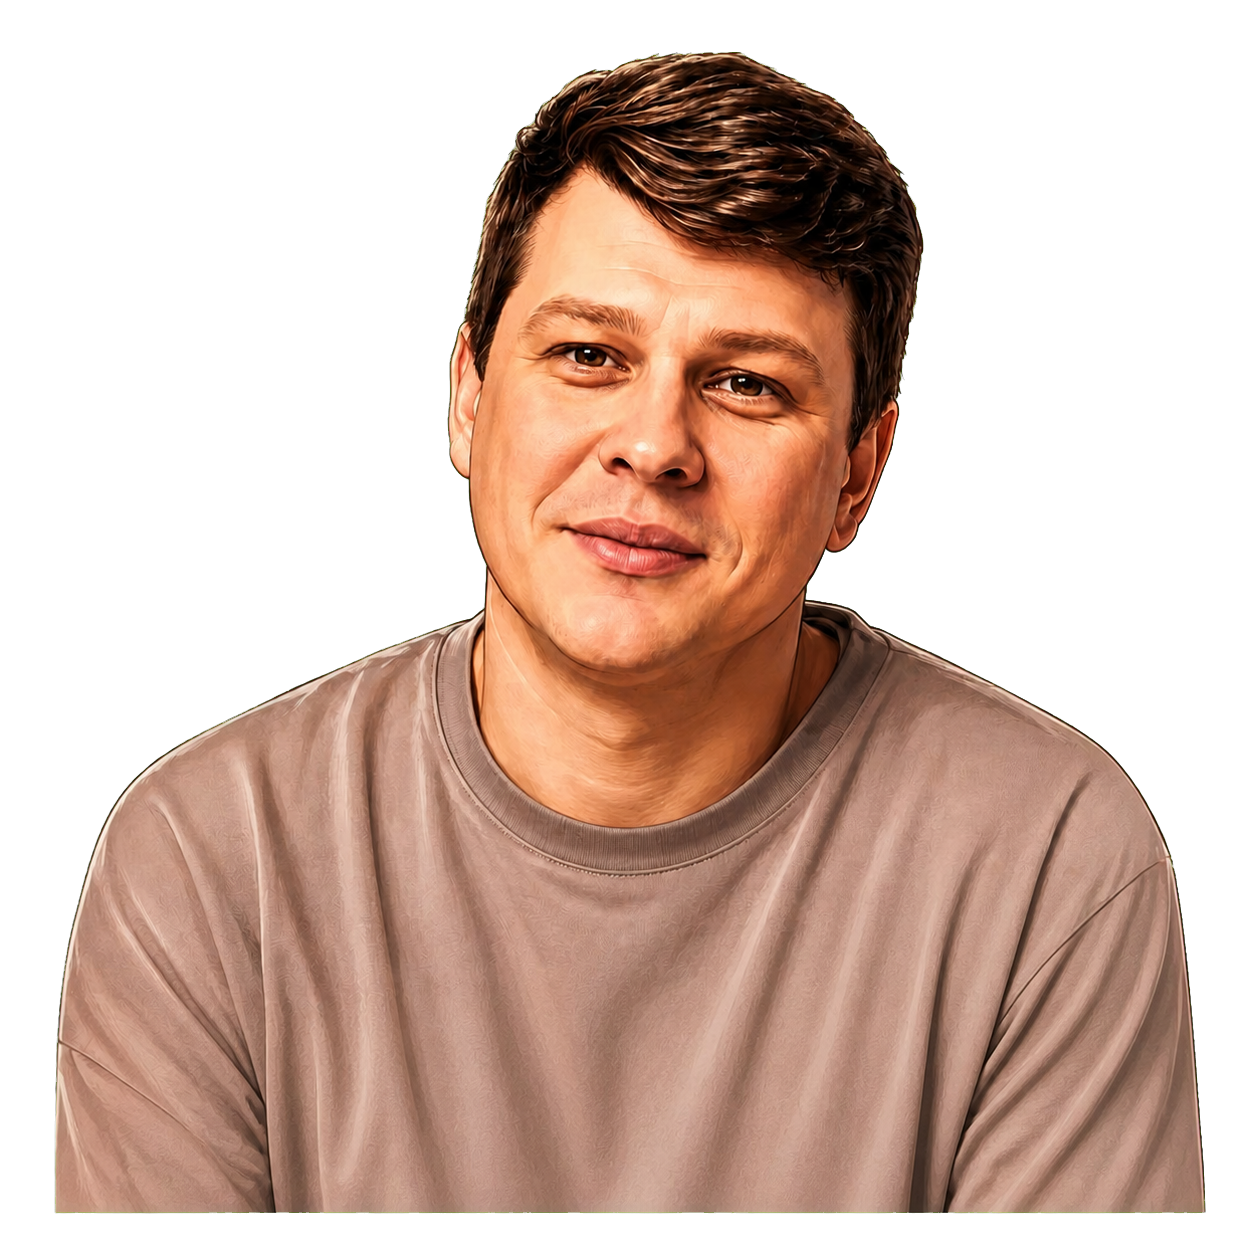
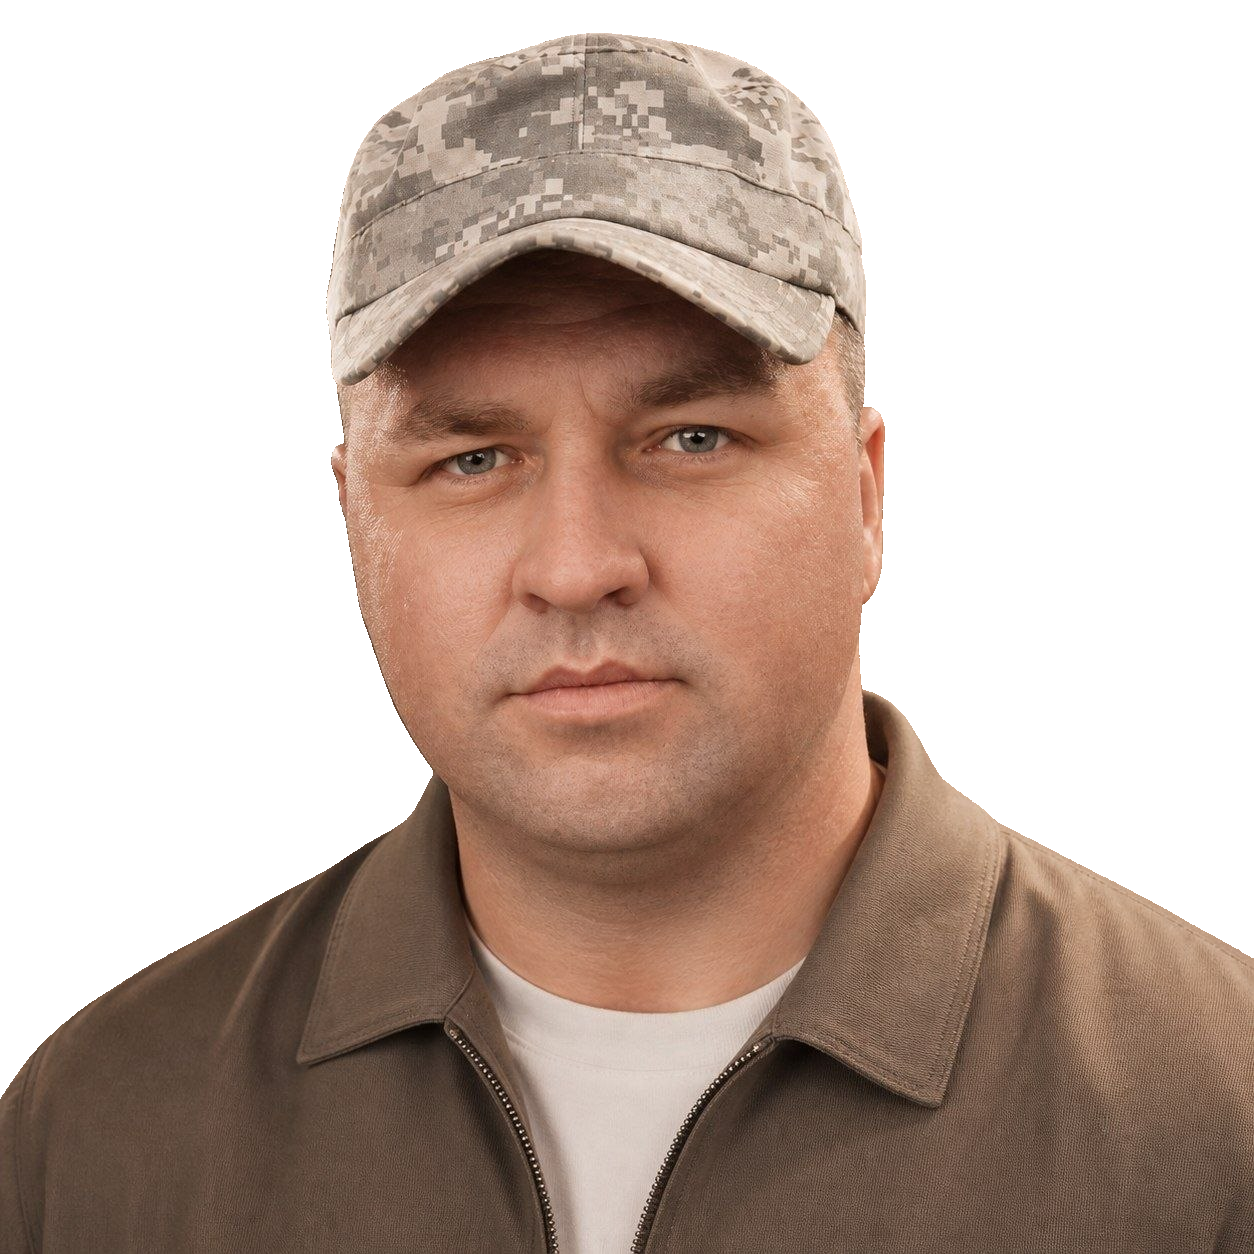
Pokolenie

diff --git a/lib/core/windows_vpn_core.dart b/lib/core/windows_vpn_core.dart
@@ -180,7 +180,10 @@ class WindowsVpnCore implements VpnCore {
       final exitCode = await _runElevated(<String>['/installtunnelservice', _runtimeConfig!.path]);
       if (exitCode != 0) throw StateError('AmneziaWG service installer: код $exitCode.');
       _serviceInstalled = true;
-      final running = await _waitForService(running: true, timeout: const Duration(seconds: 15));
+      // The first Wintun adapter installation on a fresh Windows system can
+      // remain START_PENDING well beyond 15 seconds. Do not tear the service
+      // down while Windows is still installing and binding the signed driver.
+      final running = await _waitForService(running: true, timeout: const Duration(seconds: 60));
       if (!running) {
         throw StateError(
           'Служба AmneziaWG не перешла в состояние RUNNING. ${await _serviceDiagnostics()}',
@@ -390,9 +393,9 @@ class WindowsVpnCore implements VpnCore {
       }
       final result = await Process.run(_awgExe!, <String>['show', _tunnelName, 'dump'], runInShell: false);
       if (result.exitCode != 0) {
-        _stopStatistics();
-        if (!_traffic.isClosed) _traffic.add(const TrafficSnapshot());
-        _emit(VpnCoreState.error);
+        // The adapter may be RUNNING before its userspace control pipe becomes
+        // readable by the desktop process. A statistics read is observational:
+        // it must never turn a healthy VPN service into an error state.
         return;
       }
       final lines = result.stdout.toString().trim().split('\n');

diff --git a/tools/validate_source.py b/tools/validate_source.py
@@ -40,7 +40,7 @@ def main() -> None:
     for item in forbidden_paths:
         if (ROOT / item).exists(): errors.append(f'Obsolete path remains: {item}')
     pubspec = read('pubspec.yaml')
-    if 'version: 1.2.1+121' not in pubspec: errors.append('Wrong version')
+    if 'version: 1.2.2+122' not in pubspec: errors.append('Wrong version')
     for token in ('singbox_mm', 'uuid:'):
         if token in pubspec: errors.append(f'Obsolete dependency: {token}')
     joined = '\n'.join(path.read_text(encoding='utf-8-sig') for path in (ROOT / 'lib').rglob('*.dart'))
@@ -87,6 +87,6 @@ def main() -> None:
     if errors:
         print('\n'.join(f'ERROR: {e}' for e in errors))
         raise SystemExit(1)
-    print('Pokolenie WARP 1.2.1 source validation: OK')
+    print('Pokolenie WARP 1.2.2 source validation: OK')
 
 if __name__ == '__main__': main()

diff --git a/tools/package_release.py b/tools/package_release.py
@@ -3,7 +3,7 @@ import zipfile
 
 
 ROOT = Path(__file__).resolve().parents[1]
-OUTPUT = ROOT.parents[1] / "outputs" / "Pokolenie-WARP-v1.2.1-source.zip"
+OUTPUT = ROOT.parents[1] / "outputs" / "Pokolenie-WARP-v1.2.2-source.zip"
 SKIP_PARTS = {
     ".dart_tool",
     ".gradle",

diff --git a/CHANGELOG.md b/CHANGELOG.md
@@ -1,5 +1,14 @@
 # Changelog
 
+## 1.2.2+122
+
+- Первая установка Wintun на Windows теперь может находиться в
+  `START_PENDING` до 60 секунд: приложение больше не удаляет службу через
+  прежние 15 секунд, пока Windows ещё создаёт и привязывает адаптер.
+- Ошибка чтения необязательной статистики `awg show` больше не переводит
+  работающую службу в состояние ошибки и не создаёт ложное отключение.
+- Заменены фотография Toasty-персонажа и сопровождающий MP3 пользователя.
+
 ## 1.2.1+121
 
 - Android-селектор использует полный список установленных пакетов вместо

diff --git a/docs/NATIVE_PORTS.md b/docs/NATIVE_PORTS.md
@@ -5,7 +5,7 @@ Android `VpnService`; each needs a platform VPN host and entitlements.
 
 ## Windows
 
-Version 1.2.1 embeds the official signed AmneziaWG 2.0.0 x64 tunnel runtime inside the
+Version 1.2.2 embeds the official signed AmneziaWG 2.0.0 x64 tunnel runtime inside the
 Pokolenie WARP installer. It does not install or launch the AmneziaWG manager UI and
 does not create a second shortcut or startup entry. It creates a named tunnel
 service with administrator consent, confirms the
